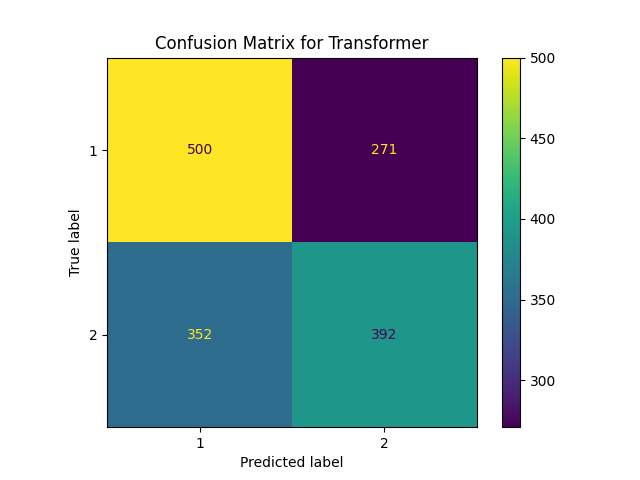
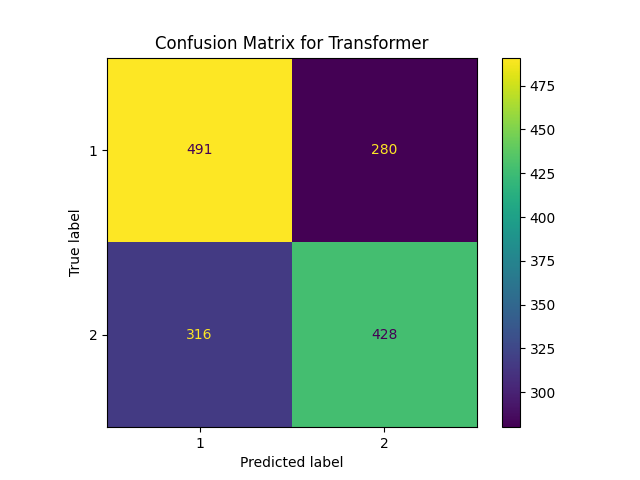
hyperparameter tuning for logistic regression, naive bayes, random forest, FCNN, LSTM, SVM, and transformer

diff --git a/code/config.py b/code/config.py
@@ -24,11 +24,11 @@ print(f"Using device: {DEVICE}")
 HYPERPARAMETERS = {
     "Random Forest": {
         # tree-related parameters
-        "n_estimators": 100, # number of trees in the forest
+        "n_estimators": 200, # number of trees in the forest
         "criterion": "gini", # function to measure split quality
         "max_depth": 10, # maximum depth of the tree
-        "min_samples_split": 5, # minimum samples required to split
-        "min_samples_leaf": 2, # minimum samples required in a leaf
+        "min_samples_split": 10, # minimum samples required to split
+        "min_samples_leaf": 4, # minimum samples required in a leaf
         "min_weight_fraction_leaf": 0.0, # minimum weighted fraction of leaf
         "max_features": "sqrt", # number of features to consider for split
         "max_leaf_nodes": None, # maximum number of leaf nodes
@@ -37,12 +37,12 @@ HYPERPARAMETERS = {
         "bootstrap": True, # whether to bootstrap samples
         "oob_score": False, # whether to use out-of-bag samples
         # computational settings
-        "n_jobs": None, # number of jobs to run in parallel
+        "n_jobs": -1, # number of jobs to run in parallel
         "random_state": 21, # random seed for reproducibility
         "verbose": 0, # verbosity level
         "warm_start": False, # reuse previous solutions to add trees
         # regularization
-        "class_weight": None, # weights associated with classes
+        "class_weight": "balanced", # weights associated with classes
         "ccp_alpha": 0.0, # complexity parameter for pruning
         "max_samples": None, # maximum samples to draw for bootstrap
     },
@@ -75,7 +75,7 @@ HYPERPARAMETERS = {
     },
     "SVM": {
         # model settings
-        "C": 1.0, # regularization parameter
+        "C": 0.5, # regularization parameter
         "kernel": "rbf", # kernel type for svm
         "degree": 3, # degree for polynomial kernel
         "gamma": "scale", # kernel coefficient
@@ -83,12 +83,12 @@ HYPERPARAMETERS = {
         # optimization
         "shrinking": True, # whether to use shrinking heuristic
         "probability": True, # whether to enable probability estimates
-        "tol": 1e-3, # tolerance for stopping criterion
+        "tol": 1e-4, # tolerance for stopping criterion
         # computational settings
-        "cache_size": 200, # size of kernel cache (mb)
-        "class_weight": None, # weights associated with classes
+        "cache_size": 500, # size of kernel cache (mb)
+        "class_weight": "balanced", # weights associated with classes
         "verbose": False, # verbosity level
-        "max_iter": -1, # maximum number of iterations
+        "max_iter": 1000, # maximum number of iterations
         # decision function
         "decision_function_shape": "ovr", # one-vs-rest decision function
         "break_ties": False, # whether to break ties
@@ -99,19 +99,19 @@ HYPERPARAMETERS = {
         "penalty": "l2", # regularization penalty
         "dual": False, # solve dual problem (only for l2)
         # optimization
-        "tol": 1e-4, # tolerance for stopping criteria
-        "C": 1.0, # inverse of regularization strength
+        "tol": 1e-5, # tolerance for stopping criteria
+        "C": 0.5, # inverse of regularization strength
         # model settings
         "fit_intercept": True, # whether to fit intercept
         "intercept_scaling": 1, # scaling of intercept
-        "class_weight": None, # weights associated with classes
+        "class_weight": "balanced", # weights associated with classes
         # computational settings
         "random_state": 21, # random seed for reproducibility
         "solver": "lbfgs", # optimization solver
-        "max_iter": 1000, # maximum iterations
+        "max_iter": 2000, # maximum iterations
         "verbose": 0, # verbosity level
         "warm_start": False, # reuse previous solution
-        "n_jobs": None, # number of jobs to run in parallel
+        "n_jobs": -1, # number of jobs to run in parallel
         "l1_ratio": None, # elastic-net mixing parameter
     },
     "KNN": {
@@ -125,20 +125,20 @@ HYPERPARAMETERS = {
         "metric": "minkowski", # distance metric
         "metric_params": None, # additional parameters for metric
         # computational settings
-        "n_jobs": None, # number of jobs to run in parallel
+        "n_jobs": -1, # number of jobs to run in parallel
     },
     "Naive Bayes": {
-        "var_smoothing": 1e-9, # portion of variance added to avoid zero
+        "var_smoothing": 1e-8, # portion of variance added to avoid zero
     },
     "FCNN": {
         # model architecture
-        "hidden_size": 512, # number of units in hidden layer
+        "hidden_size": 256, # number of units in hidden layer
         # training hyperparams common to all
-        "optimizer": "SGD", # optimization algorithm
-        "learning_rate": 0.001, # step size for optimizer
-        "weight_decay": 0.1, # weight decay for regularization
-        "num_epochs": 500, # number of training epochs
-        "batch_size": 16, # batch size for training
+        "optimizer": "Adam", # optimization algorithm
+        "learning_rate": 0.0005, # step size for optimizer
+        "weight_decay": 0.01, # weight decay for regularization
+        "num_epochs": 300, # number of training epochs
+        "batch_size": 32, # batch size for training
         # sgd parameters
         "momentum": 0.0, # momentum factor
         "dampening": 0.0, # dampening for momentum
@@ -177,14 +177,14 @@ HYPERPARAMETERS = {
     },
     "LSTM": {
         # model architecture
-        "hidden_size": 64, # number of units in hidden layer
-        "num_layers": 1, # number of recurrent layers
+        "hidden_size": 128, # number of units in hidden layer
+        "num_layers": 2, # number of recurrent layers
         # training hyperparams
-        "optimizer": "SGD", # optimization algorithm
-        "learning_rate": 0.001, # step size for optimizer
-        "weight_decay": 0.1, # weight decay for regularization
-        "num_epochs": 500, # number of training epochs
-        "batch_size": 16, # batch size for training
+        "optimizer": "Adam", # optimization algorithm
+        "learning_rate": 0.0005, # step size for optimizer
+        "weight_decay": 0.01, # weight decay for regularization
+        "num_epochs": 300, # number of training epochs
+        "batch_size": 32, # batch size for training
         # sgd parameters
         "momentum": 0.0, # momentum factor
         "dampening": 0.0, # dampening for momentum
@@ -200,15 +200,15 @@ HYPERPARAMETERS = {
     },
     "Transformer": {
         # model architecture
-        "embedding_dim": 64, # size of embedding vectors
-        "num_layers": 2, # number of transformer layers
+        "embedding_dim": 128, # size of embedding vectors
+        "num_layers": 4, # number of transformer layers
         "nhead": 8, # number of attention heads
         # training hyperparams
-        "optimizer": "SGD", # optimization algorithm
-        "learning_rate": 0.001, # step size for optimizer
-        "weight_decay": 0.1, # weight decay for regularization
-        "num_epochs": 500, # number of training epochs
-        "batch_size": 16, # batch size for training
+        "optimizer": "Adam", # optimization algorithm
+        "learning_rate": 0.0005, # step size for optimizer
+        "weight_decay": 0.01, # weight decay for regularization
+        "num_epochs": 300, # number of training epochs
+        "batch_size": 32, # batch size for training
         # sgd parameters
         "momentum": 0.0, # momentum factor
         "dampening": 0.0, # dampening for momentum
